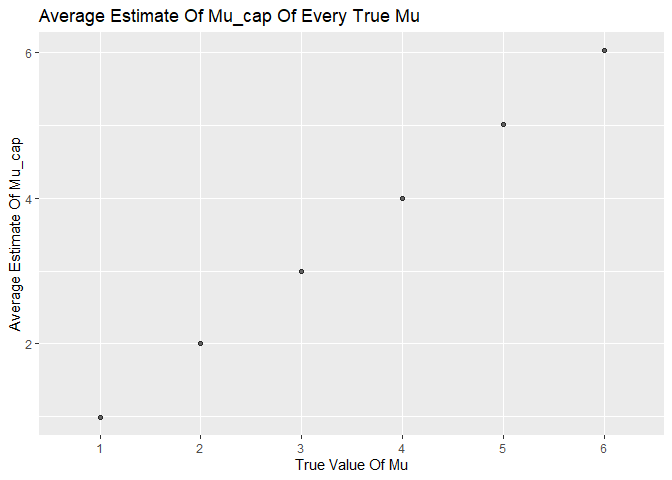
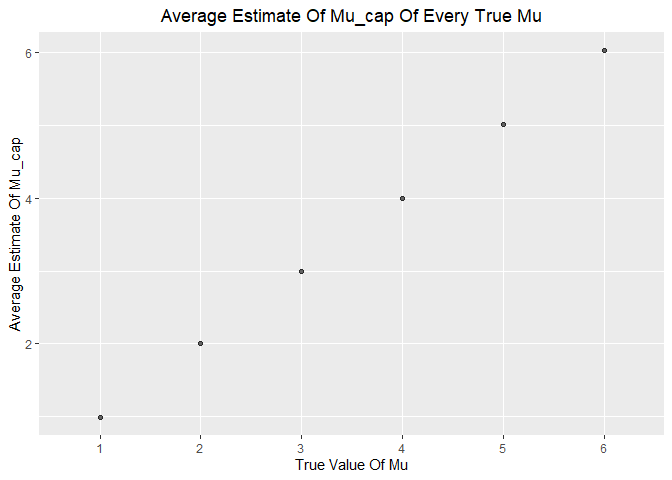
modify plot tittle axis

Changed region(s): [[0.0625, 0.0, 0.8125, 0.0625]]

diff --git a/p8105_hw5_bf2506.md b/p8105_hw5_bf2506.md
@@ -17,7 +17,8 @@ homi_data =
 
 **Describe the raw data:**
 
-- The dataset has 12 variables and 52179 observations.
+- The dataset has 12 variables and 52179 observations. (Variables are as
+  follows)
 
   - “uid”(the abbreviation of city - number); “reported_date”
 
@@ -180,13 +181,15 @@ Estimates_CIs_Plot =
   ggplot(aes(x = reorder(city_state, estimate), y = estimate)) + 
   geom_point() +
   geom_errorbar(aes(ymin = conf.low, ymax = conf.high)) +
-  theme(axis.text.x = element_text(angle = 45, hjust = 1)) +
+  theme(axis.text.x = element_text(size = 9, face = "bold", angle = 70, hjust = 1), 
+        plot.title = element_text(hjust = 0.5)) +
   labs(title = "Estimate And CI Of Proportion Of Unsolved Homicides For Each City", x = "City, State", y = "Estimate / CI")
 
 Estimates_CIs_Plot
 ```
 
 ![](p8105_hw5_bf2506_files/figure-gfm/unnamed-chunk-4-1.png)<!-- -->
+
 Since I discussed aboved, the total number of homicides and the number
 of unsolved homicides in Tulsa, AL are not sufficient and enough to
 analyze and run a prop.test, the “Estimate And CI Of Proportion Of
@@ -277,6 +280,7 @@ Power_Truemu_Plot =
   summarize(times = n()) %>% 
   ggplot(aes(x = as.factor(mu), y = times/5000)) + 
   geom_point(alpha = .6) +
+  theme(plot.title = element_text(hjust = 0.5)) +
   labs(title = "The Power Of The Test Of Every True MU", x = "True Value Of Mu", y = "Proportion Of Times Null Was Rejected ")
 
 Power_Truemu_Plot
@@ -302,6 +306,7 @@ Ave_True_plot =
   summarize(ave_mu_cap = mean(mu_cap)) %>% 
   ggplot(aes(x = as.factor(mu), y = ave_mu_cap)) + 
   geom_point(alpha = .6) +
+  theme(plot.title = element_text(hjust = 0.5)) +
   labs(title = "Average Estimate Of Mu_cap Of Every True Mu", x = "True Value Of Mu", y = "Average Estimate Of Mu_cap")
 
 Ave_True_plot
@@ -321,6 +326,7 @@ Ave_In_Reject_Plot =
   summarize(ave_reject = mean(mu_cap)) %>% 
   ggplot(aes(x = as.factor(mu), y = ave_reject)) + 
   geom_point(alpha = .6) +
+  theme(plot.title = element_text(hjust = 0.5)) +
   labs(title = "Average Estimate Of Mu_cap Of Every True Mu In Reject-Null-Sample", x = "True Value Of Mu", y = "Average Estimate Of Mu_cap In Reject-Null-Sample")
 
 Ave_In_Reject_Plot
